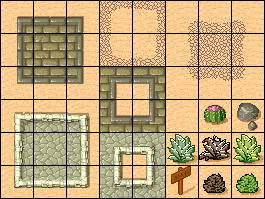
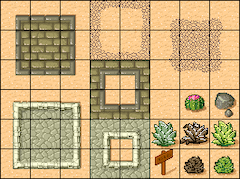
added desert tilemap and tileset

Changed region(s): [[0.0, 0.0, 1.0, 1.0], [0.175, 0.3073, 0.2625, 0.3631], [0.1167, 0.7263, 0.1458, 0.7821]]

diff --git a/assets/desert_tiles.tsx b/assets/desert_tiles.tsx
@@ -1,4 +1,4 @@
 <?xml version="1.0" encoding="UTF-8"?>
-<tileset version="1.2" tiledversion="1.2.4" name="desert_tiles" tilewidth="32" tileheight="32" spacing="1" margin="1" tilecount="48" columns="8">
- <image source="desert_tiles.png" width="265" height="199"/>
+<tileset version="1.2" tiledversion="1.2.4" name="desert_tiles" tilewidth="30" tileheight="30" tilecount="40" columns="8">
+ <image source="desert_tiles.png" width="240" height="179"/>
 </tileset>
